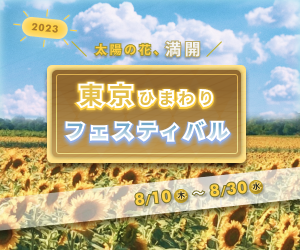
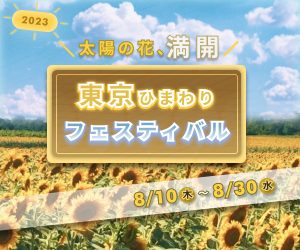
横長バナー追加、東京ひまわりまつり1修正

Changed region(s): [[0.0, 0.0, 0.81, 0.252], [0.42, 0.7, 0.93, 0.84]]

diff --git a/index.html b/index.html
@@ -39,6 +39,20 @@
             <img src="./images/tokyo_sunflower_festival_3.png" alt="東京ひまわりまつり3">
           </li>
         </ul>
+        <ul id="tokyo-sunflower-festival_landscape">
+          <li class="text-title">
+            <p>DAY15</p>
+          </li>
+          <li>
+            <img src="./images/tokyo_sunflower_festival_landscape_1.png" alt="東京ひまわりまつり横長バナー1">
+          </li>
+          <li>
+            <img src="./images/tokyo_sunflower_festival_landscape_2.png" alt="東京ひまわりまつり横長バナー2">
+          </li>
+          <li>
+            <img src="./images/tokyo_sunflower_festival_landscape_3.png" alt="東京ひまわりまつり横長バナー3">
+          </li>
+        </ul>
     </div>
   </main>
 </body>

diff --git a/style.css b/style.css
@@ -48,7 +48,7 @@ li {
   padding: 0 10px;
 }
 
-@media screen and (max-width: 480px) {
+@media screen and (max-width: 800px) {
   #container {
     flex-direction: column;
     margin: 0;
